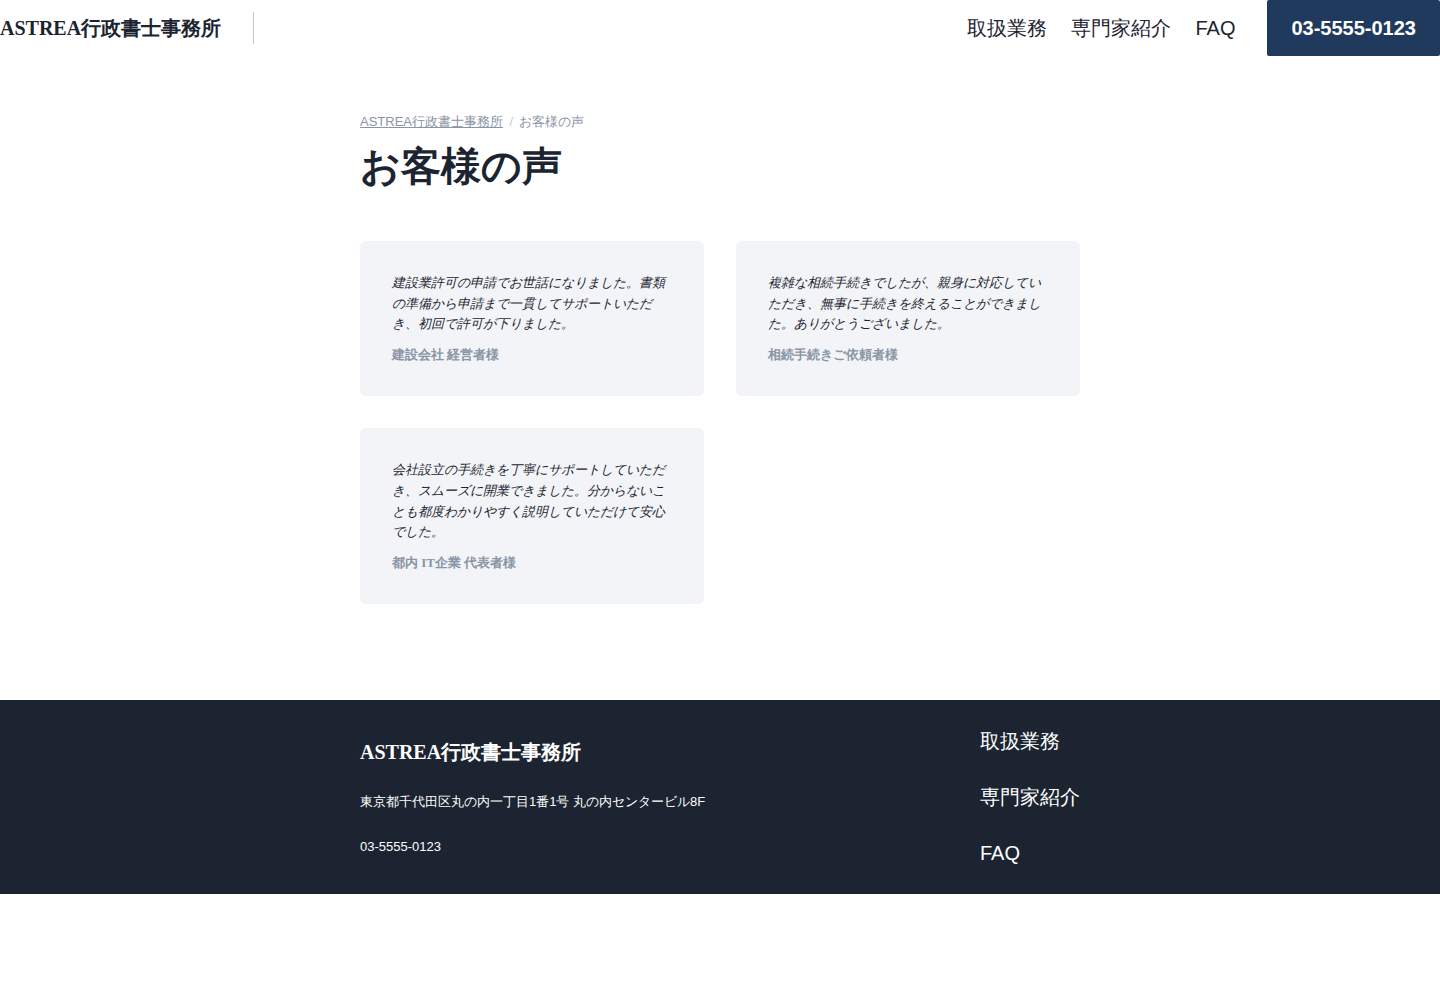
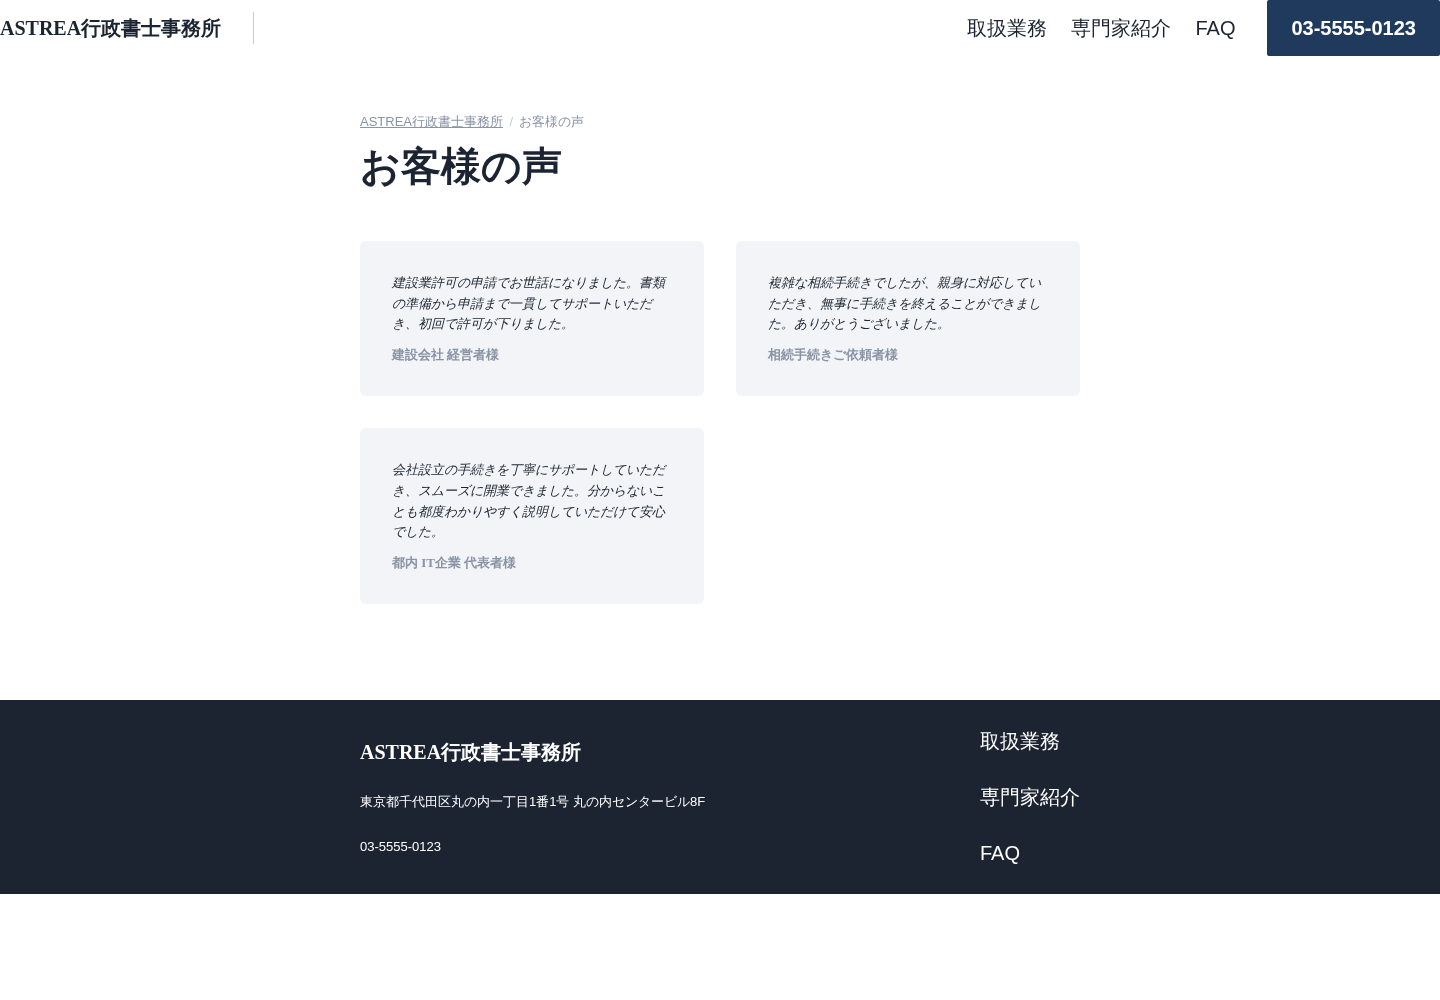
Fix VOICE archive: remove custom className from post-title to preserve H2 contract
archive-astrea_voice.htmlのcore/post-titleブロックにAttribution装飾用の
独自classNameを付与していたため、既存smoke-test.sh Part CR(VOICE Archive
の見出しがH1からのLevel飛び無くH2で出力されることの確認)が期待する
<h2 class="wp-block-post-title">という最小限のClass属性と一致しなく
なっていた。

今回はTest側ではなく製品側を修正: 独自classNameを外し、CSSセレクタを
.wp-block-astrea-voice-item .wp-block-post-title という既存構造に依存
するDescendant Selectorへ変更。Markup契約(core/post-titleが余計な
Classを持たないH2として出力される)を保ったまま視覚Styleのみ維持、
実機で見た目に変化が無いことを確認済み。

diff --git a/theme/templates/archive-astrea_voice.html b/theme/templates/archive-astrea_voice.html
@@ -16,7 +16,7 @@
 <!-- wp:group {"tagName":"article","className":"wp-block-astrea-voice-item","layout":{"type":"constrained"}} -->
 <article class="wp-block-group wp-block-astrea-voice-item">
 <!-- wp:post-content {"className":"astrea-voice-quote"} /-->
-<!-- wp:post-title {"level":2,"isLink":false,"className":"astrea-voice-attribution"} /-->
+<!-- wp:post-title {"level":2,"isLink":false} /-->
 </article>
 <!-- /wp:group -->
 <!-- /wp:post-template -->

diff --git a/docs/research/2026-08-29_construction_order_015d_archive_single_report.md b/docs/research/2026-08-29_construction_order_015d_archive_single_report.md
@@ -120,7 +120,7 @@ Trust（デフォルト）に加え、Natural・ModernでCASE Single・Service A
 - 公式 Theme Check プラグイン実行: REQUIRED 0 / WARNING 0（INFO 1件、text-domain統一の情報表示のみ・RC1から既知の許容事項）。実行後プラグインは削除。
 - PHPCS: 62/62（0 errors, 0 warnings）。
 - PHPUnit: 359 tests / 560 assertions、OK（既存ベースラインと一致、回帰なし）。
-- **smoke-test.sh（CI, Clean環境）**: 初回PushでPart K（Professional Archiveの順序チェック）がFAILした。原因は`visible_content_only()`が`<script>`ブロックのみ除去しており、Archiveに新規追加した`core/read-more`が付与する隠しAccessible Name（`<span class="screen-reader-text">: {タイトル}</span>`）を除去していなかったため、氏名が可視H2タイトルと隠しSpanの2箇所でカウントされ二重化したこと。015C Part Yと同種の「新しい正当なMarkupに対するTest側のBlunt Checkの誤検知」であり、製品コードのAccessibility実装は意図通り。`visible_content_only()`に`.screen-reader-text`のStripを追加し、実機HTMLで氏名が1回のみカウントされることを確認した上で再Push。2回目のCIでは別のPart BB（Core非活性時にASTREA SEO出力が残っていないことの確認）がFAILした。原因は015Dでtheme.jsonへ追加したBreadcrumb用CSS（`.wp-block-astrea-breadcrumb`セレクタ）がTheme側の常時出力（Core状態に無関係）であるにもかかわらず、Testが`grep -qF 'wp-block-astrea-breadcrumb'`という素朴な部分一致でCheckしていたため、実際のBreadcrumb要素ではなくCSSセレクタ文字列を誤検知していたこと。これもPart Y/Kと同種のTest側Blunt Check誤検知。`class="wp-block-astrea-breadcrumb"`という実際のHTML属性値に一致条件を絞る修正をAU/BBの2箇所に適用し、実機HTMLで(1)実際の要素がある場合は1件、(2)CSSのみでHOMEのように要素が無い場合は0件、を正しく判別できることを確認した上で再々Push。3回目のCIではPart CO（Professional Singleで空Fieldが空見出しを残さないことを確認する、Construction 011由来の既存Check）がFAILした。原因は同じパターンで、015Dでtheme.jsonへ追加した`.wp-block-astrea-professional-field`のCSSが常時出力されるためだった。該当1項目のみ`class="..."`属性一致に絞る修正を行い、他に新規追加したCSSクラス（`astrea-archive-empty`/`astrea-archive-header`/`astrea-archive-listing`/`wp-block-astrea-closing-cta`/`astrea-professional-single-header`/`astrea-voice-quote`等）についても同種のBlunt Check箇所が他に存在しないことをsmoke-test.sh全体で確認した上で再々々Push、CI Greenを確認した。
+- **smoke-test.sh（CI, Clean環境）**: 初回PushでPart K（Professional Archiveの順序チェック）がFAILした。原因は`visible_content_only()`が`<script>`ブロックのみ除去しており、Archiveに新規追加した`core/read-more`が付与する隠しAccessible Name（`<span class="screen-reader-text">: {タイトル}</span>`）を除去していなかったため、氏名が可視H2タイトルと隠しSpanの2箇所でカウントされ二重化したこと。015C Part Yと同種の「新しい正当なMarkupに対するTest側のBlunt Checkの誤検知」であり、製品コードのAccessibility実装は意図通り。`visible_content_only()`に`.screen-reader-text`のStripを追加し、実機HTMLで氏名が1回のみカウントされることを確認した上で再Push。2回目のCIでは別のPart BB（Core非活性時にASTREA SEO出力が残っていないことの確認）がFAILした。原因は015Dでtheme.jsonへ追加したBreadcrumb用CSS（`.wp-block-astrea-breadcrumb`セレクタ）がTheme側の常時出力（Core状態に無関係）であるにもかかわらず、Testが`grep -qF 'wp-block-astrea-breadcrumb'`という素朴な部分一致でCheckしていたため、実際のBreadcrumb要素ではなくCSSセレクタ文字列を誤検知していたこと。これもPart Y/Kと同種のTest側Blunt Check誤検知。`class="wp-block-astrea-breadcrumb"`という実際のHTML属性値に一致条件を絞る修正をAU/BBの2箇所に適用し、実機HTMLで(1)実際の要素がある場合は1件、(2)CSSのみでHOMEのように要素が無い場合は0件、を正しく判別できることを確認した上で再々Push。3回目のCIではPart CO（Professional Singleで空Fieldが空見出しを残さないことを確認する、Construction 011由来の既存Check）がFAILした。原因は同じパターンで、015Dでtheme.jsonへ追加した`.wp-block-astrea-professional-field`のCSSが常時出力されるためだった。該当1項目のみ`class="..."`属性一致に絞る修正を行い、他に新規追加したCSSクラス（`astrea-archive-empty`/`astrea-archive-header`/`astrea-archive-listing`/`wp-block-astrea-closing-cta`/`astrea-professional-single-header`/`astrea-voice-quote`等）についても同種のBlunt Check箇所が他に存在しないことをsmoke-test.sh全体で確認した上で再々々Push。4回目のCIではPart CR（VOICE Archive項目見出しがH1からのLevel飛び無くH2で出力されることを確認する既存Check）がFAILした。今回は前3件と異なりTest側の誤検知ではなく、`archive-astrea_voice.html`のpost-titleブロックにAttribution装飾用の独自`className`を付与していたことで、既存Checkが期待する`<h2 class="wp-block-post-title">`という最小限のClass属性と一致しなくなっていたのが原因だった。Testではなく製品側のTemplateを修正: 独自`className`を外し、CSSセレクタを`.wp-block-astrea-voice-item .wp-block-post-title`という既存構造に依存するDescendant Selectorへ変更することで、Markup自体は既存Contract（`core/post-title`が余計なClassを持たないH2として出力される）を保ったまま視覚Styleのみ維持した。実機で見た目に変化が無いことを再確認した上で4回目のPush、CI Greenを確認した。
 
 ## 12. スコープ外・Known Issues
 
